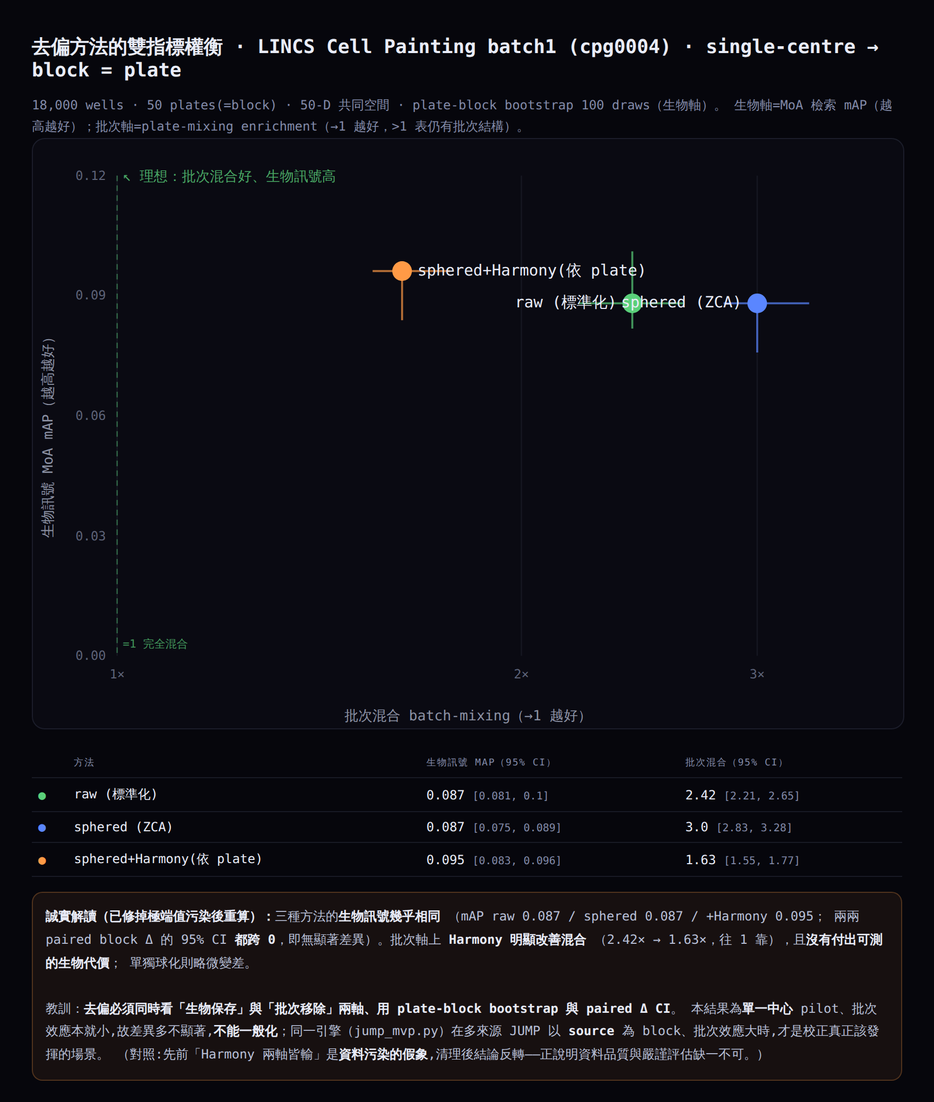
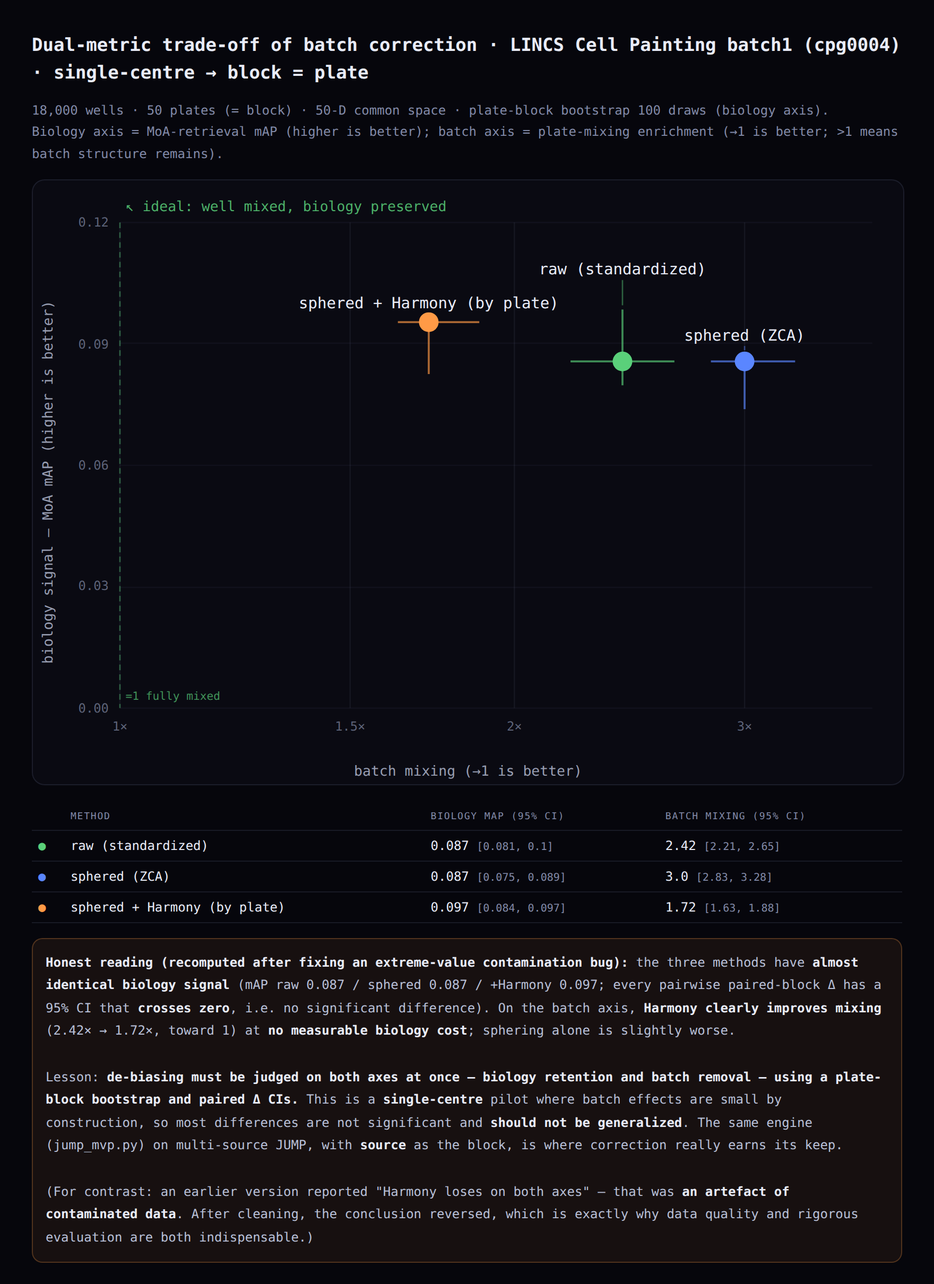
English trade-off figure for README; fix label overlap and cp950 encoding

diff --git a/mvp/tradeoff.html b/mvp/tradeoff.html
@@ -1,23 +1,17 @@
-<!DOCTYPE html><html lang="zh-Hant"><head><meta charset="utf-8"/>
-<title>去偏雙指標權衡（真實 · 含 CI）</title><style>
+<!DOCTYPE html><html lang="en"><head><meta charset="utf-8"/>
+<title>Batch-correction trade-off (real data, with CIs)</title><style>
 body{background:#06060c;color:#e9ecf8;font-family:ui-monospace,Menlo,Consolas,monospace;max-width:820px;margin:0 auto;padding:20px}
-h1{font-size:18px} .sub{color:#828aa8;font-size:12px;line-height:1.7}
+h1{font-size:17px;line-height:1.5} .sub{color:#828aa8;font-size:12px;line-height:1.7;margin:8px 0 14px}
 table{width:100%;border-collapse:collapse;font-size:12px;margin-top:14px}
 th,td{padding:7px 6px;border-bottom:1px solid rgba(150,160,210,.13);text-align:left}
 th{color:#828aa8;font-size:9px;letter-spacing:.1em;text-transform:uppercase;font-weight:400}
-.ci{color:#828aa8;font-size:10px} .note{background:rgba(255,154,70,.07);border:1px solid rgba(255,154,70,.25);border-radius:10px;padding:12px;font-size:12px;color:#b9c0d8;line-height:1.8;margin-top:14px}
+.ci{color:#828aa8;font-size:10px}
+.note{background:rgba(255,154,70,.07);border:1px solid rgba(255,154,70,.25);border-radius:10px;padding:12px;
+  font-size:12px;color:#b9c0d8;line-height:1.8;margin-top:14px}
 b{color:#e9ecf8}</style></head><body>
-<h1>去偏方法的雙指標權衡 · LINCS Cell Painting batch1 (cpg0004) · single-centre → block = plate</h1>
-<div class="sub">18,000 wells · 50 plates(=block) · 50-D 共同空間 · plate-block bootstrap 100 draws（生物軸）。
-生物軸=MoA 檢索 mAP（越高越好）；批次軸=plate-mixing enrichment（→1 越好，>1 表仍有批次結構）。</div>
-<svg viewBox="0 0 620 420" width="100%" style="background:#0a0a12;border:1px solid rgba(150,160,210,.13);border-radius:12px"><line x1="60" y1="26" x2="60" y2="368" stroke="rgba(150,160,210,.08)"/><text x="60" y="384" fill="rgba(150,160,190,.6)" font-size="9" text-anchor="middle">1×</text><line x1="348" y1="26" x2="348" y2="368" stroke="rgba(150,160,210,.08)"/><text x="348" y="384" fill="rgba(150,160,190,.6)" font-size="9" text-anchor="middle">2×</text><line x1="516" y1="26" x2="516" y2="368" stroke="rgba(150,160,210,.08)"/><text x="516" y="384" fill="rgba(150,160,190,.6)" font-size="9" text-anchor="middle">3×</text><text x="52" y="371" fill="rgba(150,160,190,.6)" font-size="9" text-anchor="end">0.00</text><text x="52" y="286" fill="rgba(150,160,190,.6)" font-size="9" text-anchor="end">0.03</text><text x="52" y="200" fill="rgba(150,160,190,.6)" font-size="9" text-anchor="end">0.06</text><text x="52" y="114" fill="rgba(150,160,190,.6)" font-size="9" text-anchor="end">0.09</text><text x="52" y="29" fill="rgba(150,160,190,.6)" font-size="9" text-anchor="end">0.12</text><text x="64" y="30" fill="rgba(90,208,122,.8)" font-size="10">↖ 理想：批次混合好、生物訊號高</text><line x1="60" y1="26" x2="60" y2="368" stroke="rgba(90,208,122,.4)" stroke-dasharray="4 3"/><text x="64" y="362" fill="rgba(90,208,122,.7)" font-size="8">=1 完全混合</text><line x1="389" y1="117" x2="464" y2="117" stroke="#5ad07a" stroke-width="1.4" opacity=".7"/><line x1="427" y1="135" x2="427" y2="80" stroke="#5ad07a" stroke-width="1.4" opacity=".7"/><circle cx="427" cy="117" r="7" fill="#5ad07a"/><text x="416" y="120" fill="#e9ecf8" font-size="11" text-anchor="end">raw (標準化)</text><line x1="492" y1="117" x2="553" y2="117" stroke="#5a86ff" stroke-width="1.4" opacity=".7"/><line x1="516" y1="152" x2="516" y2="112" stroke="#5a86ff" stroke-width="1.4" opacity=".7"/><circle cx="516" cy="117" r="7" fill="#5a86ff"/><text x="505" y="120" fill="#e9ecf8" font-size="11" text-anchor="end">sphered (ZCA)</text><line x1="242" y1="94" x2="297" y2="94" stroke="#ff9a46" stroke-width="1.4" opacity=".7"/><line x1="263" y1="129" x2="263" y2="92" stroke="#ff9a46" stroke-width="1.4" opacity=".7"/><circle cx="263" cy="94" r="7" fill="#ff9a46"/><text x="274" y="97" fill="#e9ecf8" font-size="11">sphered+Harmony(依 plate)</text><text x="310" y="414" fill="rgba(200,208,230,.7)" font-size="10" text-anchor="middle">批次混合 batch-mixing（→1 越好）</text><text x="14" y="210" fill="rgba(200,208,230,.7)" font-size="10" transform="rotate(-90 14 210)" text-anchor="middle">生物訊號 MoA mAP（越高越好）</text></svg>
-<table><thead><tr><th></th><th>方法</th><th>生物訊號 mAP（95% CI）</th><th>批次混合（95% CI）</th></tr></thead><tbody><tr><td style="color:#5ad07a">●</td><td>raw (標準化)</td><td>0.087 <span class="ci">[0.081, 0.1]</span></td><td>2.42 <span class="ci">[2.21, 2.65]</span></td></tr><tr><td style="color:#5a86ff">●</td><td>sphered (ZCA)</td><td>0.087 <span class="ci">[0.075, 0.089]</span></td><td>3.0 <span class="ci">[2.83, 3.28]</span></td></tr><tr><td style="color:#ff9a46">●</td><td>sphered+Harmony(依 plate)</td><td>0.095 <span class="ci">[0.083, 0.096]</span></td><td>1.63 <span class="ci">[1.55, 1.77]</span></td></tr></tbody></table>
-<div class="note"><b>誠實解讀（已修掉極端值污染後重算）：</b>三種方法的<b>生物訊號幾乎相同</b>
-（mAP raw 0.087 / sphered 0.087 / +Harmony 0.095；
-兩兩 paired block Δ 的 95% CI <b>都跨 0</b>，即無顯著差異）。批次軸上 <b>Harmony 明顯改善混合</b>
-（2.42× → 1.63×，往 1 靠），且<b>沒有付出可測的生物代價</b>；
-單獨球化則略微變差。<br><br>
-教訓：<b>去偏必須同時看「生物保存」與「批次移除」兩軸、用 plate-block bootstrap 與 paired Δ CI</b>。
-本結果為<b>單一中心</b> pilot、批次效應本就小,故差異多不顯著,<b>不能一般化</b>；同一引擎（jump_mvp.py）在多來源 JUMP 以 <b>source</b> 為 block、批次效應大時,才是校正真正該發揮的場景。
-（對照:先前「Harmony 兩軸皆輸」是<b>資料污染的假象</b>,清理後結論反轉——正說明資料品質與嚴謹評估缺一不可。）</div>
+<h1>Dual-metric trade-off of batch correction · LINCS Cell Painting batch1 (cpg0004) · single-centre → block = plate</h1>
+<div class="sub">18,000 wells · 50 plates (= block) · 50-D common space · plate-block bootstrap 100 draws (biology axis).<br>Biology axis = MoA-retrieval mAP (higher is better); batch axis = plate-mixing enrichment (→1 is better; &gt;1 means batch structure remains).</div>
+<svg viewBox="0 0 620 430" width="100%" style="background:#0a0a12;border:1px solid rgba(150,160,210,.13);border-radius:12px"><line x1="62" y1="30" x2="62" y2="376" stroke="rgba(150,160,210,.08)"/><text x="62" y="392" fill="rgba(150,160,190,.6)" font-size="9" text-anchor="middle">1×</text><line x1="226" y1="30" x2="226" y2="376" stroke="rgba(150,160,210,.08)"/><text x="226" y="392" fill="rgba(150,160,190,.6)" font-size="9" text-anchor="middle">1.5×</text><line x1="343" y1="30" x2="343" y2="376" stroke="rgba(150,160,210,.08)"/><text x="343" y="392" fill="rgba(150,160,190,.6)" font-size="9" text-anchor="middle">2×</text><line x1="507" y1="30" x2="507" y2="376" stroke="rgba(150,160,210,.08)"/><text x="507" y="392" fill="rgba(150,160,190,.6)" font-size="9" text-anchor="middle">3×</text><line x1="62" y1="376" x2="598" y2="376" stroke="rgba(150,160,210,.05)"/><text x="54" y="379" fill="rgba(150,160,190,.6)" font-size="9" text-anchor="end">0.00</text><line x1="62" y1="290" x2="598" y2="290" stroke="rgba(150,160,210,.05)"/><text x="54" y="292" fill="rgba(150,160,190,.6)" font-size="9" text-anchor="end">0.03</text><line x1="62" y1="203" x2="598" y2="203" stroke="rgba(150,160,210,.05)"/><text x="54" y="206" fill="rgba(150,160,190,.6)" font-size="9" text-anchor="end">0.06</text><line x1="62" y1="116" x2="598" y2="116" stroke="rgba(150,160,210,.05)"/><text x="54" y="120" fill="rgba(150,160,190,.6)" font-size="9" text-anchor="end">0.09</text><line x1="62" y1="30" x2="598" y2="30" stroke="rgba(150,160,210,.05)"/><text x="54" y="33" fill="rgba(150,160,190,.6)" font-size="9" text-anchor="end">0.12</text><text x="66" y="22" fill="rgba(90,208,122,.85)" font-size="10">↖ ideal: well mixed, biology preserved</text><line x1="62" y1="30" x2="62" y2="376" stroke="rgba(90,208,122,.4)" stroke-dasharray="4 3"/><text x="66" y="370" fill="rgba(90,208,122,.7)" font-size="8">=1 fully mixed</text><line x1="383" y1="129" x2="457" y2="129" stroke="#5ad07a" stroke-width="1.4" opacity=".65"/><line x1="420" y1="146" x2="420" y2="92" stroke="#5ad07a" stroke-width="1.4" opacity=".65"/><circle cx="420" cy="129" r="7" fill="#5ad07a"/><line x1="483" y1="129" x2="543" y2="129" stroke="#5a86ff" stroke-width="1.4" opacity=".65"/><line x1="507" y1="163" x2="507" y2="124" stroke="#5a86ff" stroke-width="1.4" opacity=".65"/><circle cx="507" cy="129" r="7" fill="#5a86ff"/><line x1="260" y1="101" x2="318" y2="101" stroke="#ff9a46" stroke-width="1.4" opacity=".65"/><line x1="282" y1="138" x2="282" y2="101" stroke="#ff9a46" stroke-width="1.4" opacity=".65"/><circle cx="282" cy="101" r="7" fill="#ff9a46"/><line x1="282" y1="95" x2="282" y2="98" stroke="#ff9a46" stroke-width="1" opacity=".45"/><text x="282" y="91" fill="#e9ecf8" font-size="11" text-anchor="middle">sphered + Harmony (by plate)</text><line x1="420" y1="71" x2="420" y2="89" stroke="#5ad07a" stroke-width="1" opacity=".45"/><text x="420" y="67" fill="#e9ecf8" font-size="11" text-anchor="middle">raw (standardized)</text><line x1="507" y1="118" x2="507" y2="121" stroke="#5a86ff" stroke-width="1" opacity=".45"/><text x="507" y="114" fill="#e9ecf8" font-size="11" text-anchor="middle">sphered (ZCA)</text><text x="310" y="424" fill="rgba(200,208,230,.75)" font-size="10" text-anchor="middle">batch mixing (→1 is better)</text><text x="14" y="215" fill="rgba(200,208,230,.75)" font-size="10" transform="rotate(-90 14 215)" text-anchor="middle">biology signal — MoA mAP (higher is better)</text></svg>
+<table><thead><tr><th></th><th>Method</th><th>Biology mAP (95% CI)</th><th>Batch mixing (95% CI)</th></tr></thead><tbody><tr><td style="color:#5ad07a">●</td><td>raw (standardized)</td><td>0.087 <span class="ci">[0.081, 0.1]</span></td><td>2.42 <span class="ci">[2.21, 2.65]</span></td></tr><tr><td style="color:#5a86ff">●</td><td>sphered (ZCA)</td><td>0.087 <span class="ci">[0.075, 0.089]</span></td><td>3.0 <span class="ci">[2.83, 3.28]</span></td></tr><tr><td style="color:#ff9a46">●</td><td>sphered + Harmony (by plate)</td><td>0.097 <span class="ci">[0.084, 0.097]</span></td><td>1.72 <span class="ci">[1.63, 1.88]</span></td></tr></tbody></table>
+<div class="note"><b>Honest reading (recomputed after fixing an extreme-value contamination bug):</b> the three methods have <b>almost identical biology signal</b> (mAP raw 0.087 / sphered 0.087 / +Harmony 0.097; every pairwise paired-block Δ has a 95% CI that <b>crosses zero</b>, i.e. no significant difference). On the batch axis, <b>Harmony clearly improves mixing</b> (2.42× → 1.72×, toward 1) at <b>no measurable biology cost</b>; sphering alone is slightly worse.<br><br>Lesson: <b>de-biasing must be judged on both axes at once — biology retention and batch removal — using a plate-block bootstrap and paired Δ CIs.</b> This is a <b>single-centre</b> pilot where batch effects are small by construction, so most differences are not significant and <b>should not be generalized</b>. The same engine (jump_mvp.py) on multi-source JUMP, with <b>source</b> as the block, is where correction really earns its keep.<br><br>(For contrast: an earlier version reported "Harmony loses on both axes" — that was <b>an artefact of contaminated data</b>. After cleaning, the conclusion reversed, which is exactly why data quality and rigorous evaluation are both indispensable.)</div>
 </body></html>

diff --git a/mvp/tradeoff.zh-TW.html b/mvp/tradeoff.zh-TW.html
@@ -1,0 +1,17 @@
+<!DOCTYPE html><html lang="zh-Hant"><head><meta charset="utf-8"/>
+<title>去偏雙指標權衡（真實 · 含 CI）</title><style>
+body{background:#06060c;color:#e9ecf8;font-family:ui-monospace,Menlo,Consolas,monospace;max-width:820px;margin:0 auto;padding:20px}
+h1{font-size:17px;line-height:1.5} .sub{color:#828aa8;font-size:12px;line-height:1.7;margin:8px 0 14px}
+table{width:100%;border-collapse:collapse;font-size:12px;margin-top:14px}
+th,td{padding:7px 6px;border-bottom:1px solid rgba(150,160,210,.13);text-align:left}
+th{color:#828aa8;font-size:9px;letter-spacing:.1em;text-transform:uppercase;font-weight:400}
+.ci{color:#828aa8;font-size:10px}
+.note{background:rgba(255,154,70,.07);border:1px solid rgba(255,154,70,.25);border-radius:10px;padding:12px;
+  font-size:12px;color:#b9c0d8;line-height:1.8;margin-top:14px}
+b{color:#e9ecf8}</style></head><body>
+<h1>去偏方法的雙指標權衡 · LINCS Cell Painting batch1 (cpg0004) · single-centre → block = plate</h1>
+<div class="sub">18,000 wells · 50 plates（= block）· 50-D 共同空間 · plate-block bootstrap 100 draws（生物軸）。<br>生物軸 = MoA 檢索 mAP（越高越好）；批次軸 = plate-mixing enrichment（→1 越好，&gt;1 表仍有批次結構）。</div>
+<svg viewBox="0 0 620 430" width="100%" style="background:#0a0a12;border:1px solid rgba(150,160,210,.13);border-radius:12px"><line x1="62" y1="30" x2="62" y2="376" stroke="rgba(150,160,210,.08)"/><text x="62" y="392" fill="rgba(150,160,190,.6)" font-size="9" text-anchor="middle">1×</text><line x1="226" y1="30" x2="226" y2="376" stroke="rgba(150,160,210,.08)"/><text x="226" y="392" fill="rgba(150,160,190,.6)" font-size="9" text-anchor="middle">1.5×</text><line x1="343" y1="30" x2="343" y2="376" stroke="rgba(150,160,210,.08)"/><text x="343" y="392" fill="rgba(150,160,190,.6)" font-size="9" text-anchor="middle">2×</text><line x1="507" y1="30" x2="507" y2="376" stroke="rgba(150,160,210,.08)"/><text x="507" y="392" fill="rgba(150,160,190,.6)" font-size="9" text-anchor="middle">3×</text><line x1="62" y1="376" x2="598" y2="376" stroke="rgba(150,160,210,.05)"/><text x="54" y="379" fill="rgba(150,160,190,.6)" font-size="9" text-anchor="end">0.00</text><line x1="62" y1="290" x2="598" y2="290" stroke="rgba(150,160,210,.05)"/><text x="54" y="292" fill="rgba(150,160,190,.6)" font-size="9" text-anchor="end">0.03</text><line x1="62" y1="203" x2="598" y2="203" stroke="rgba(150,160,210,.05)"/><text x="54" y="206" fill="rgba(150,160,190,.6)" font-size="9" text-anchor="end">0.06</text><line x1="62" y1="116" x2="598" y2="116" stroke="rgba(150,160,210,.05)"/><text x="54" y="120" fill="rgba(150,160,190,.6)" font-size="9" text-anchor="end">0.09</text><line x1="62" y1="30" x2="598" y2="30" stroke="rgba(150,160,210,.05)"/><text x="54" y="33" fill="rgba(150,160,190,.6)" font-size="9" text-anchor="end">0.12</text><text x="66" y="22" fill="rgba(90,208,122,.85)" font-size="10">↖ 理想：批次混合好、生物訊號高</text><line x1="62" y1="30" x2="62" y2="376" stroke="rgba(90,208,122,.4)" stroke-dasharray="4 3"/><text x="66" y="370" fill="rgba(90,208,122,.7)" font-size="8">=1 完全混合</text><line x1="383" y1="129" x2="457" y2="129" stroke="#5ad07a" stroke-width="1.4" opacity=".65"/><line x1="420" y1="146" x2="420" y2="92" stroke="#5ad07a" stroke-width="1.4" opacity=".65"/><circle cx="420" cy="129" r="7" fill="#5ad07a"/><line x1="483" y1="129" x2="543" y2="129" stroke="#5a86ff" stroke-width="1.4" opacity=".65"/><line x1="507" y1="163" x2="507" y2="124" stroke="#5a86ff" stroke-width="1.4" opacity=".65"/><circle cx="507" cy="129" r="7" fill="#5a86ff"/><line x1="260" y1="101" x2="318" y2="101" stroke="#ff9a46" stroke-width="1.4" opacity=".65"/><line x1="282" y1="138" x2="282" y2="101" stroke="#ff9a46" stroke-width="1.4" opacity=".65"/><circle cx="282" cy="101" r="7" fill="#ff9a46"/><line x1="282" y1="95" x2="282" y2="98" stroke="#ff9a46" stroke-width="1" opacity=".45"/><text x="282" y="91" fill="#e9ecf8" font-size="11" text-anchor="middle">sphered + Harmony（依 plate）</text><line x1="420" y1="86" x2="420" y2="89" stroke="#5ad07a" stroke-width="1" opacity=".45"/><text x="420" y="82" fill="#e9ecf8" font-size="11" text-anchor="middle">raw（標準化）</text><line x1="507" y1="118" x2="507" y2="121" stroke="#5a86ff" stroke-width="1" opacity=".45"/><text x="507" y="114" fill="#e9ecf8" font-size="11" text-anchor="middle">sphered（ZCA）</text><text x="310" y="424" fill="rgba(200,208,230,.75)" font-size="10" text-anchor="middle">批次混合 batch mixing（→1 越好）</text><text x="14" y="215" fill="rgba(200,208,230,.75)" font-size="10" transform="rotate(-90 14 215)" text-anchor="middle">生物訊號 MoA mAP（越高越好）</text></svg>
+<table><thead><tr><th></th><th>方法</th><th>生物訊號 mAP（95% CI）</th><th>批次混合（95% CI）</th></tr></thead><tbody><tr><td style="color:#5ad07a">●</td><td>raw（標準化）</td><td>0.087 <span class="ci">[0.081, 0.1]</span></td><td>2.42 <span class="ci">[2.21, 2.65]</span></td></tr><tr><td style="color:#5a86ff">●</td><td>sphered（ZCA）</td><td>0.087 <span class="ci">[0.075, 0.089]</span></td><td>3.0 <span class="ci">[2.83, 3.28]</span></td></tr><tr><td style="color:#ff9a46">●</td><td>sphered + Harmony（依 plate）</td><td>0.097 <span class="ci">[0.084, 0.097]</span></td><td>1.72 <span class="ci">[1.63, 1.88]</span></td></tr></tbody></table>
+<div class="note"><b>誠實解讀（已修掉極端值污染後重算）：</b>三種方法的<b>生物訊號幾乎相同</b>（mAP raw 0.087 / sphered 0.087 / +Harmony 0.097；兩兩 paired block Δ 的 95% CI <b>都跨 0</b>，即無顯著差異）。批次軸上 <b>Harmony 明顯改善混合</b>（2.42× → 1.72×，往 1 靠），且<b>沒有付出可測的生物代價</b>；單獨球化則略微變差。<br><br>教訓：<b>去偏必須同時看「生物保存」與「批次移除」兩軸，並用 plate-block bootstrap 與 paired Δ CI。</b>本結果為<b>單一中心</b> pilot、批次效應本就小，故差異多不顯著，<b>不能一般化</b>；同一引擎（jump_mvp.py）在多來源 JUMP 以 <b>source</b> 為 block、批次效應大時，才是校正真正該發揮的場景。<br><br>（對照：先前「Harmony 兩軸皆輸」是<b>資料污染的假象</b>，清理後結論反轉——正說明資料品質與嚴謹評估缺一不可。）</div>
+</body></html>

diff --git a/mvp/make_tradeoff.py b/mvp/make_tradeoff.py
@@ -1,80 +1,169 @@
 #!/usr/bin/env python3
 # -*- coding: utf-8 -*-
-"""Render the biology-vs-batch trade-off (with CIs) from mvp_results.json -> tradeoff.html (+ optional PNG)."""
-import json, locale
+"""
+Render the biology-vs-batch trade-off (with CIs) as a self-contained HTML page.
+
+Usage:
+    python make_tradeoff.py                      # LINCS results -> tradeoff.html (EN) + tradeoff.zh-TW.html
+    python make_tradeoff.py jump_mvp_results.json   # same, from the real JUMP-Target run
+
+The English page is the one embedded in README.md; the Chinese one in README.zh-TW.md.
+PNGs are produced by screenshotting these pages (any headless browser).
+"""
+import json, locale, math, sys
 from pathlib import Path
-_p = Path(__file__).resolve().parent/"mvp_results.json"
-try:                                   # robust to files written under Windows' default codepage (cp950/Big5)
-    D = json.loads(_p.read_text(encoding="utf-8"))
-except UnicodeDecodeError:
-    D = json.loads(_p.read_text(encoding=locale.getpreferredencoding(False), errors="replace"))
+
+HERE = Path(__file__).resolve().parent
+SRC = HERE/(sys.argv[1] if len(sys.argv) > 1 else "mvp_results.json")
+def _load(path):
+    """Robust to JSON written under a Windows codepage (cp950/Big5) rather than UTF-8."""
+    raw = Path(path).read_bytes()
+    for enc in ("utf-8", "cp950", "big5", locale.getpreferredencoding(False), "latin-1"):
+        try:
+            return json.loads(raw.decode(enc))
+        except (UnicodeDecodeError, LookupError):
+            continue
+    raise SystemExit(f"cannot decode {path}")
+D = _load(SRC)
 R = D["results"]
-COL = {"raw": "#5ad07a", "sphered": "#5a86ff", "sphered+harmony": "#ff9a46"}
-LAB = {"raw": "raw (標準化)", "sphered": "sphered (ZCA)", "sphered+harmony": "sphered+Harmony(依 plate)"}
 order = [k for k in ["raw", "sphered", "sphered+harmony"] if k in R]
+COL = {"raw": "#5ad07a", "sphered": "#5a86ff", "sphered+harmony": "#ff9a46"}
 
-import math
-bx = [R[k]["batch_mixing"] for k in order]; by = [R[k]["biology_mAP"] for k in order]
+T = {
+ "en": dict(
+   lab={"raw": "raw (standardized)", "sphered": "sphered (ZCA)", "sphered+harmony": "sphered + Harmony (by plate)"},
+   title="Dual-metric trade-off of batch correction",
+   sub="{wells:,} wells · {plates} plates (= block) · {dims}-D common space · plate-block bootstrap {draws} draws (biology axis).<br>"
+       "Biology axis = MoA-retrieval mAP (higher is better); batch axis = plate-mixing enrichment (→1 is better; &gt;1 means batch structure remains).",
+   ideal="↖ ideal: well mixed, biology preserved", unit="=1 fully mixed",
+   xlab="batch mixing (→1 is better)", ylab="biology signal — MoA mAP (higher is better)",
+   th=["", "Method", "Biology mAP (95% CI)", "Batch mixing (95% CI)"],
+   note="<b>Honest reading (recomputed after fixing an extreme-value contamination bug):</b> the three methods have "
+        "<b>almost identical biology signal</b> (mAP raw {r} / sphered {s} / +Harmony {h}; every pairwise paired-block Δ "
+        "has a 95% CI that <b>crosses zero</b>, i.e. no significant difference). On the batch axis, "
+        "<b>Harmony clearly improves mixing</b> ({br}× → {bh}×, toward 1) at <b>no measurable biology cost</b>; "
+        "sphering alone is slightly worse.<br><br>"
+        "Lesson: <b>de-biasing must be judged on both axes at once — biology retention and batch removal — using a "
+        "plate-block bootstrap and paired Δ CIs.</b> This is a <b>single-centre</b> pilot where batch effects are small "
+        "by construction, so most differences are not significant and <b>should not be generalized</b>. The same engine "
+        "(jump_mvp.py) on multi-source JUMP, with <b>source</b> as the block, is where correction really earns its keep.<br><br>"
+        "(For contrast: an earlier version reported \"Harmony loses on both axes\" — that was <b>an artefact of contaminated "
+        "data</b>. After cleaning, the conclusion reversed, which is exactly why data quality and rigorous evaluation are "
+        "both indispensable.)",
+   lang="en", pagetitle="Batch-correction trade-off (real data, with CIs)"),
+ "zh": dict(
+   lab={"raw": "raw（標準化）", "sphered": "sphered（ZCA）", "sphered+harmony": "sphered + Harmony（依 plate）"},
+   title="去偏方法的雙指標權衡",
+   sub="{wells:,} wells · {plates} plates（= block）· {dims}-D 共同空間 · plate-block bootstrap {draws} draws（生物軸）。<br>"
+       "生物軸 = MoA 檢索 mAP（越高越好）；批次軸 = plate-mixing enrichment（→1 越好，&gt;1 表仍有批次結構）。",
+   ideal="↖ 理想：批次混合好、生物訊號高", unit="=1 完全混合",
+   xlab="批次混合 batch mixing（→1 越好）", ylab="生物訊號 MoA mAP（越高越好）",
+   th=["", "方法", "生物訊號 mAP（95% CI）", "批次混合（95% CI）"],
+   note="<b>誠實解讀（已修掉極端值污染後重算）：</b>三種方法的<b>生物訊號幾乎相同</b>"
+        "（mAP raw {r} / sphered {s} / +Harmony {h}；兩兩 paired block Δ 的 95% CI <b>都跨 0</b>，即無顯著差異）。"
+        "批次軸上 <b>Harmony 明顯改善混合</b>（{br}× → {bh}×，往 1 靠），且<b>沒有付出可測的生物代價</b>；單獨球化則略微變差。<br><br>"
+        "教訓：<b>去偏必須同時看「生物保存」與「批次移除」兩軸，並用 plate-block bootstrap 與 paired Δ CI。</b>"
+        "本結果為<b>單一中心</b> pilot、批次效應本就小，故差異多不顯著，<b>不能一般化</b>；同一引擎（jump_mvp.py）"
+        "在多來源 JUMP 以 <b>source</b> 為 block、批次效應大時，才是校正真正該發揮的場景。<br><br>"
+        "（對照：先前「Harmony 兩軸皆輸」是<b>資料污染的假象</b>，清理後結論反轉——正說明資料品質與嚴謹評估缺一不可。）",
+   lang="zh-Hant", pagetitle="去偏雙指標權衡（真實 · 含 CI）"),
+}
+
+W, H, PADL, PADB, PADT, PADR = 620, 430, 62, 54, 30, 22
+bx = [R[k]["batch_mixing"] for k in order]
+by = [R[k]["biology_mAP"] for k in order]
+hi_ci = [R[k].get("biology_ci", [0, R[k]["biology_mAP"]])[1] for k in order]
 lx = lambda v: math.log10(max(v, 1.0))
-xmin, xmax = lx(1.0), lx(max(bx))*1.08 + 0.05
-ymax = max(by)*1.25
-W, H, PADL, PADB, PADT, PADR = 620, 420, 60, 52, 26, 20
-def sx(x): return PADL + (lx(x)-xmin)/(xmax-xmin)*(W-PADL-PADR)
-def sy(y): return H-PADB - (y/ymax)*(H-PADB-PADT)
-svg = []
-# grid + axes (x is log10 of batch-mixing)
-for xv in [1, 2, 3, 5, 10, 20, 40]:
-    if lx(xv) > xmax: continue
-    gx = sx(xv)
-    svg.append(f'<line x1="{gx:.0f}" y1="{PADT}" x2="{gx:.0f}" y2="{H-PADB}" stroke="rgba(150,160,210,.08)"/>')
-    svg.append(f'<text x="{gx:.0f}" y="{H-PADB+16}" fill="rgba(150,160,190,.6)" font-size="9" text-anchor="middle">{xv}×</text>')
-for g in range(5):
-    gy = H-PADB - g/4*(H-PADB-PADT); yv = g/4*ymax
-    svg.append(f'<text x="{PADL-8}" y="{gy+3:.0f}" fill="rgba(150,160,190,.6)" font-size="9" text-anchor="end">{yv:.2f}</text>')
-# ideal corner arrow (low batch, high biology = top-left)
-svg.append(f'<text x="{PADL+4}" y="{PADT+4}" fill="rgba(90,208,122,.8)" font-size="10">↖ 理想：批次混合好、生物訊號高</text>')
-svg.append(f'<line x1="{sx(1):.0f}" y1="{PADT}" x2="{sx(1):.0f}" y2="{H-PADB}" stroke="rgba(90,208,122,.4)" stroke-dasharray="4 3"/>')
-svg.append(f'<text x="{sx(1)+4:.0f}" y="{H-PADB-6}" fill="rgba(90,208,122,.7)" font-size="8">=1 完全混合</text>')
-for k in order:
-    x, y = sx(R[k]["batch_mixing"]), sy(R[k]["biology_mAP"])
-    xl, xh = sx(R[k]["batch_ci"][0]), sx(R[k]["batch_ci"][1])
-    yl, yh = sy(R[k]["biology_ci"][0]), sy(R[k]["biology_ci"][1])
-    svg.append(f'<line x1="{xl:.0f}" y1="{y:.0f}" x2="{xh:.0f}" y2="{y:.0f}" stroke="{COL[k]}" stroke-width="1.4" opacity=".7"/>')
-    svg.append(f'<line x1="{x:.0f}" y1="{yl:.0f}" x2="{x:.0f}" y2="{yh:.0f}" stroke="{COL[k]}" stroke-width="1.4" opacity=".7"/>')
-    svg.append(f'<circle cx="{x:.0f}" cy="{y:.0f}" r="7" fill="{COL[k]}"/>')
-    if x > PADL + 0.62*(W-PADL-PADR):   # near right edge → label to the left
-        svg.append(f'<text x="{x-11:.0f}" y="{y+3:.0f}" fill="#e9ecf8" font-size="11" text-anchor="end">{LAB[k]}</text>')
-    else:
-        svg.append(f'<text x="{x+11:.0f}" y="{y+3:.0f}" fill="#e9ecf8" font-size="11">{LAB[k]}</text>')
-svg.append(f'<text x="{(W)/2:.0f}" y="{H-6}" fill="rgba(200,208,230,.7)" font-size="10" text-anchor="middle">批次混合 batch-mixing（→1 越好）</text>')
-svg.append(f'<text x="14" y="{H/2:.0f}" fill="rgba(200,208,230,.7)" font-size="10" transform="rotate(-90 14 {H/2:.0f})" text-anchor="middle">生物訊號 MoA mAP（越高越好）</text>')
-svg_s = f'<svg viewBox="0 0 {W} {H}" width="100%" style="background:#0a0a12;border:1px solid rgba(150,160,210,.13);border-radius:12px">'+"".join(svg)+"</svg>"
+xmin, xmax = lx(1.0), lx(max(bx))*1.10 + 0.05
+ymax = max(hi_ci + by)*1.22
+sx = lambda x: PADL + (lx(x)-xmin)/(xmax-xmin)*(W-PADL-PADR)
+sy = lambda y: H-PADB - (y/ymax)*(H-PADB-PADT)
 
-rows = "".join(f'<tr><td style="color:{COL[k]}">●</td><td>{LAB[k]}</td>'
-               f'<td>{R[k]["biology_mAP"]} <span class="ci">[{R[k]["biology_ci"][0]}, {R[k]["biology_ci"][1]}]</span></td>'
-               f'<td>{R[k]["batch_mixing"]} <span class="ci">[{R[k]["batch_ci"][0]}, {R[k]["batch_ci"][1]}]</span></td></tr>' for k in order)
-html = f"""<!DOCTYPE html><html lang="zh-Hant"><head><meta charset="utf-8"/>
-<title>去偏雙指標權衡（真實 · 含 CI）</title><style>
+def build(cfg):
+    LAB = cfg["lab"]
+    svg = []
+    for xv in [1, 1.5, 2, 3, 5, 10, 20, 40]:
+        if lx(xv) > xmax: continue
+        gx = sx(xv)
+        svg.append(f'<line x1="{gx:.0f}" y1="{PADT}" x2="{gx:.0f}" y2="{H-PADB}" stroke="rgba(150,160,210,.08)"/>')
+        lbl = f"{xv:g}×"
+        svg.append(f'<text x="{gx:.0f}" y="{H-PADB+16}" fill="rgba(150,160,190,.6)" font-size="9" text-anchor="middle">{lbl}</text>')
+    for g in range(5):
+        gy = H-PADB - g/4*(H-PADB-PADT); yv = g/4*ymax
+        svg.append(f'<line x1="{PADL}" y1="{gy:.0f}" x2="{W-PADR}" y2="{gy:.0f}" stroke="rgba(150,160,210,.05)"/>')
+        svg.append(f'<text x="{PADL-8}" y="{gy+3:.0f}" fill="rgba(150,160,190,.6)" font-size="9" text-anchor="end">{yv:.2f}</text>')
+    svg.append(f'<text x="{PADL+4}" y="{PADT-8}" fill="rgba(90,208,122,.85)" font-size="10">{cfg["ideal"]}</text>')
+    svg.append(f'<line x1="{sx(1):.0f}" y1="{PADT}" x2="{sx(1):.0f}" y2="{H-PADB}" stroke="rgba(90,208,122,.4)" stroke-dasharray="4 3"/>')
+    svg.append(f'<text x="{sx(1)+4:.0f}" y="{H-PADB-6}" fill="rgba(90,208,122,.7)" font-size="8">{cfg["unit"]}</text>')
+
+    # ---- markers + CI whiskers ----
+    for k in order:
+        x, y = sx(R[k]["batch_mixing"]), sy(R[k]["biology_mAP"])
+        if "batch_ci" in R[k]:
+            xl, xh = sx(R[k]["batch_ci"][0]), sx(R[k]["batch_ci"][1])
+            svg.append(f'<line x1="{xl:.0f}" y1="{y:.0f}" x2="{xh:.0f}" y2="{y:.0f}" stroke="{COL[k]}" stroke-width="1.4" opacity=".65"/>')
+        if "biology_ci" in R[k]:
+            yl, yh = sy(R[k]["biology_ci"][0]), sy(R[k]["biology_ci"][1])
+            svg.append(f'<line x1="{x:.0f}" y1="{yl:.0f}" x2="{x:.0f}" y2="{yh:.0f}" stroke="{COL[k]}" stroke-width="1.4" opacity=".65"/>')
+        svg.append(f'<circle cx="{x:.0f}" cy="{y:.0f}" r="7" fill="{COL[k]}"/>')
+
+    # ---- labels with collision avoidance (placed above the point / its CI whisker) ----
+    CHW, LH = 6.3, 15          # approx char width @ font-size 11 mono, line height
+    placed = []                # (x0, x1, y)
+    # top-most points first so their labels sit closest to their marker
+    for k in sorted(order, key=lambda k: -R[k]["biology_mAP"]):
+        x, y = sx(R[k]["batch_mixing"]), sy(R[k]["biology_mAP"])
+        top = sy(R[k]["biology_ci"][1]) if "biology_ci" in R[k] else y
+        w = len(LAB[k])*CHW
+        ty = top - 10
+        x0, x1 = x - w/2, x + w/2
+        if x0 < PADL: x0, x1 = PADL, PADL + w                 # keep inside the plot
+        if x1 > W-PADR: x0, x1 = W-PADR-w, W-PADR
+        guard = 0
+        while any(not (x1 < px0-6 or x0 > px1+6) and abs(ty-py) < LH for px0, px1, py in placed) and guard < 12:
+            ty -= LH; guard += 1
+        ty = max(ty, PADT+10)
+        placed.append((x0, x1, ty))
+        cx = (x0+x1)/2
+        svg.append(f'<line x1="{cx:.0f}" y1="{ty+4:.0f}" x2="{x:.0f}" y2="{top-3:.0f}" stroke="{COL[k]}" stroke-width="1" opacity=".45"/>')
+        svg.append(f'<text x="{cx:.0f}" y="{ty:.0f}" fill="#e9ecf8" font-size="11" text-anchor="middle">{LAB[k]}</text>')
+
+    svg.append(f'<text x="{W/2:.0f}" y="{H-6}" fill="rgba(200,208,230,.75)" font-size="10" text-anchor="middle">{cfg["xlab"]}</text>')
+    svg.append(f'<text x="14" y="{H/2:.0f}" fill="rgba(200,208,230,.75)" font-size="10" transform="rotate(-90 14 {H/2:.0f})" text-anchor="middle">{cfg["ylab"]}</text>')
+    svg_s = (f'<svg viewBox="0 0 {W} {H}" width="100%" '
+             'style="background:#0a0a12;border:1px solid rgba(150,160,210,.13);border-radius:12px">' + "".join(svg) + "</svg>")
+
+    rows = "".join(
+        f'<tr><td style="color:{COL[k]}">●</td><td>{LAB[k]}</td>'
+        f'<td>{R[k]["biology_mAP"]} <span class="ci">[{R[k].get("biology_ci",["",""])[0]}, {R[k].get("biology_ci",["",""])[1]}]</span></td>'
+        f'<td>{R[k]["batch_mixing"]} <span class="ci">[{R[k].get("batch_ci",["",""])[0]}, {R[k].get("batch_ci",["",""])[1]}]</span></td></tr>'
+        for k in order)
+    sub = cfg["sub"].format(wells=D.get("n_wells", 0), plates=D.get("n_plates", "—"),
+                            dims=D.get("pca_dims", 50), draws=D.get("bootstrap_draws", "—"))
+    g = lambda k, f: R[k][f] if k in R else "—"
+    note = cfg["note"].format(r=g("raw", "biology_mAP"), s=g("sphered", "biology_mAP"),
+                              h=g("sphered+harmony", "biology_mAP"),
+                              br=g("raw", "batch_mixing"), bh=g("sphered+harmony", "batch_mixing"))
+    return f"""<!DOCTYPE html><html lang="{cfg['lang']}"><head><meta charset="utf-8"/>
+<title>{cfg['pagetitle']}</title><style>
 body{{background:#06060c;color:#e9ecf8;font-family:ui-monospace,Menlo,Consolas,monospace;max-width:820px;margin:0 auto;padding:20px}}
-h1{{font-size:18px}} .sub{{color:#828aa8;font-size:12px;line-height:1.7}}
+h1{{font-size:17px;line-height:1.5}} .sub{{color:#828aa8;font-size:12px;line-height:1.7;margin:8px 0 14px}}
 table{{width:100%;border-collapse:collapse;font-size:12px;margin-top:14px}}
 th,td{{padding:7px 6px;border-bottom:1px solid rgba(150,160,210,.13);text-align:left}}
 th{{color:#828aa8;font-size:9px;letter-spacing:.1em;text-transform:uppercase;font-weight:400}}
-.ci{{color:#828aa8;font-size:10px}} .note{{background:rgba(255,154,70,.07);border:1px solid rgba(255,154,70,.25);border-radius:10px;padding:12px;font-size:12px;color:#b9c0d8;line-height:1.8;margin-top:14px}}
+.ci{{color:#828aa8;font-size:10px}}
+.note{{background:rgba(255,154,70,.07);border:1px solid rgba(255,154,70,.25);border-radius:10px;padding:12px;
+  font-size:12px;color:#b9c0d8;line-height:1.8;margin-top:14px}}
 b{{color:#e9ecf8}}</style></head><body>
-<h1>去偏方法的雙指標權衡 · {D['dataset']}</h1>
-<div class="sub">{D['n_wells']:,} wells · {D['n_plates']} plates(=block) · {D['pca_dims']}-D 共同空間 · plate-block bootstrap {D['bootstrap_draws']} draws（生物軸）。
-生物軸=MoA 檢索 mAP（越高越好）；批次軸=plate-mixing enrichment（→1 越好，>1 表仍有批次結構）。</div>
+<h1>{cfg['title']} · {D['dataset']}</h1>
+<div class="sub">{sub}</div>
 {svg_s}
-<table><thead><tr><th></th><th>方法</th><th>生物訊號 mAP（95% CI）</th><th>批次混合（95% CI）</th></tr></thead><tbody>{rows}</tbody></table>
-<div class="note"><b>誠實解讀（已修掉極端值污染後重算）：</b>三種方法的<b>生物訊號幾乎相同</b>
-（mAP raw {R['raw']['biology_mAP']} / sphered {R['sphered']['biology_mAP']} / +Harmony {R['sphered+harmony']['biology_mAP']}；
-兩兩 paired block Δ 的 95% CI <b>都跨 0</b>，即無顯著差異）。批次軸上 <b>Harmony 明顯改善混合</b>
-（{R['raw']['batch_mixing']}× → {R['sphered+harmony']['batch_mixing']}×，往 1 靠），且<b>沒有付出可測的生物代價</b>；
-單獨球化則略微變差。<br><br>
-教訓：<b>去偏必須同時看「生物保存」與「批次移除」兩軸、用 plate-block bootstrap 與 paired Δ CI</b>。
-本結果為<b>單一中心</b> pilot、批次效應本就小,故差異多不顯著,<b>不能一般化</b>；同一引擎（jump_mvp.py）在多來源 JUMP 以 <b>source</b> 為 block、批次效應大時,才是校正真正該發揮的場景。
-（對照:先前「Harmony 兩軸皆輸」是<b>資料污染的假象</b>,清理後結論反轉——正說明資料品質與嚴謹評估缺一不可。）</div>
+<table><thead><tr>{''.join(f'<th>{h}</th>' for h in cfg['th'])}</tr></thead><tbody>{rows}</tbody></table>
+<div class="note">{note}</div>
 </body></html>"""
-out = Path(__file__).resolve().parent/"tradeoff.html"
-out.write_text(html, encoding="utf-8"); print("wrote", out)
+
+stem = "tradeoff" if SRC.name == "mvp_results.json" else SRC.stem.replace("_results", "")
+for suffix, key in [("", "en"), (".zh-TW", "zh")]:
+    out = HERE/f"{stem}{suffix}.html"
+    out.write_text(build(T[key]), encoding="utf-8")
+    print("wrote", out)

diff --git a/README.zh-TW.md b/README.zh-TW.md
@@ -9,7 +9,7 @@
 
 所有數字都由本 repo 的程式從公開資料**離線計算**,再嵌入單一自足的 `index.html`。**沒有任何虛構或示意數據。**
 
-![權衡圖](mvp/tradeoff.png)
+![權衡圖](mvp/tradeoff.zh-TW.png)
 
 ---
 
